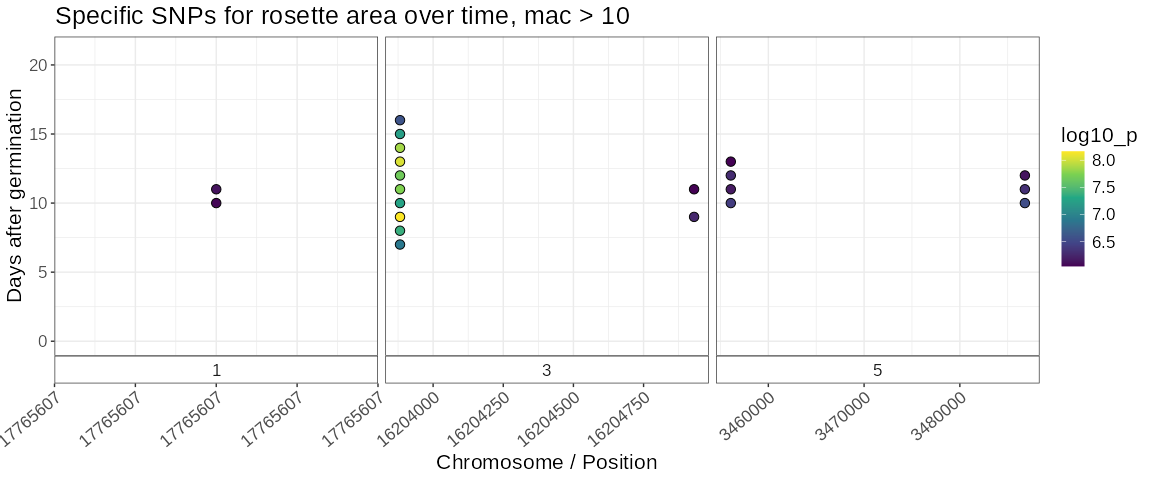
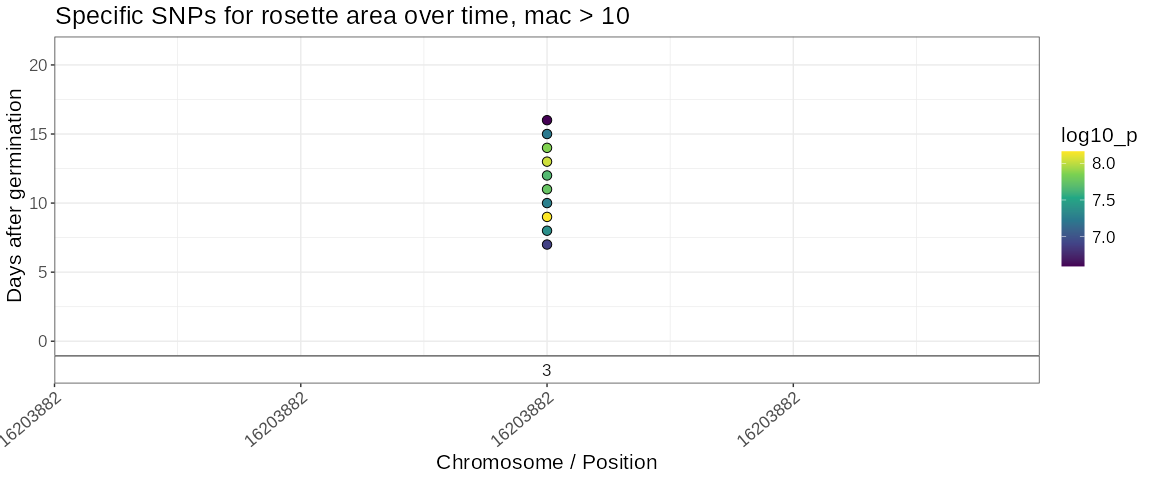
run latest Rmd

diff --git a/00_aradeepopsis_data/00_aradeepopsis_data_GWAS.md b/00_aradeepopsis_data/00_aradeepopsis_data_GWAS.md
@@ -239,11 +239,11 @@ pr_area_specific_snps  %>%
 
 ![](00_aradeepopsis_data_GWAS_files/figure-gfm/unnamed-chunk-7-1.png)<!-- -->
 
-More stringent mac filtering:
+More stringent n and mac filtering:
 
 ``` r
 pr_area_specific_snps  %>% 
-  filter(n > 5) %>% 
+  filter(n > 10) %>% 
   filter(log10_p > 6) %>% 
   filter(mac > 10) %>% 
   ggplot(aes(x = pos, y = dag)) +

diff --git a/00_aradeepopsis_data/README.md b/00_aradeepopsis_data/README.md
@@ -239,11 +239,11 @@ pr_area_specific_snps  %>%
 
 ![](00_aradeepopsis_data_GWAS_files/figure-gfm/unnamed-chunk-7-1.png)<!-- -->
 
-More stringent mac filtering:
+More stringent n and mac filtering:
 
 ``` r
 pr_area_specific_snps  %>% 
-  filter(n > 5) %>% 
+  filter(n > 10) %>% 
   filter(log10_p > 6) %>% 
   filter(mac > 10) %>% 
   ggplot(aes(x = pos, y = dag)) +
